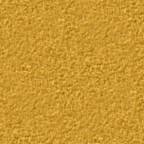
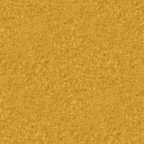
in sandbox mode, add sand to login page background and status bar

diff --git a/core/css/tabcat.css b/core/css/tabcat.css
@@ -143,6 +143,11 @@ button:disabled {
     min-width: 800px;
 }
 
+#statusBar.sandbox {
+    background-color: #cc9933;
+    background-image: url('../img/sand.png');
+}
+
 #statusBar div.left {
     float: left;
     width: 250px;
@@ -212,6 +217,12 @@ button:disabled {
 
 .blueBackground {
     background-color: #666699;
+}
+
+/* used by login page */
+.blueBackground.sandbox {
+    background-color: #cc9933;
+    background-image: url('../img/sand.png');
 }
 
 #loginMain {
